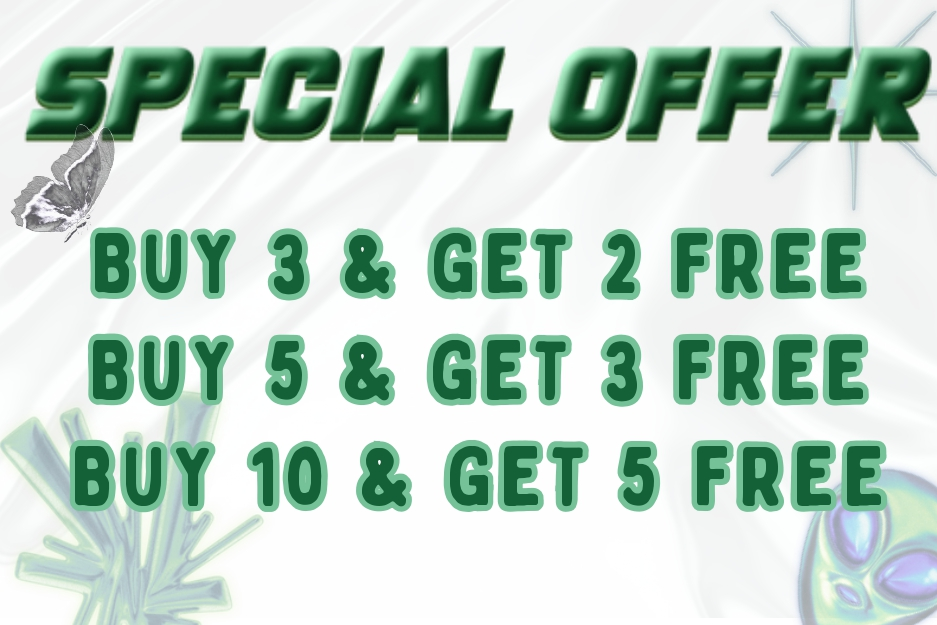
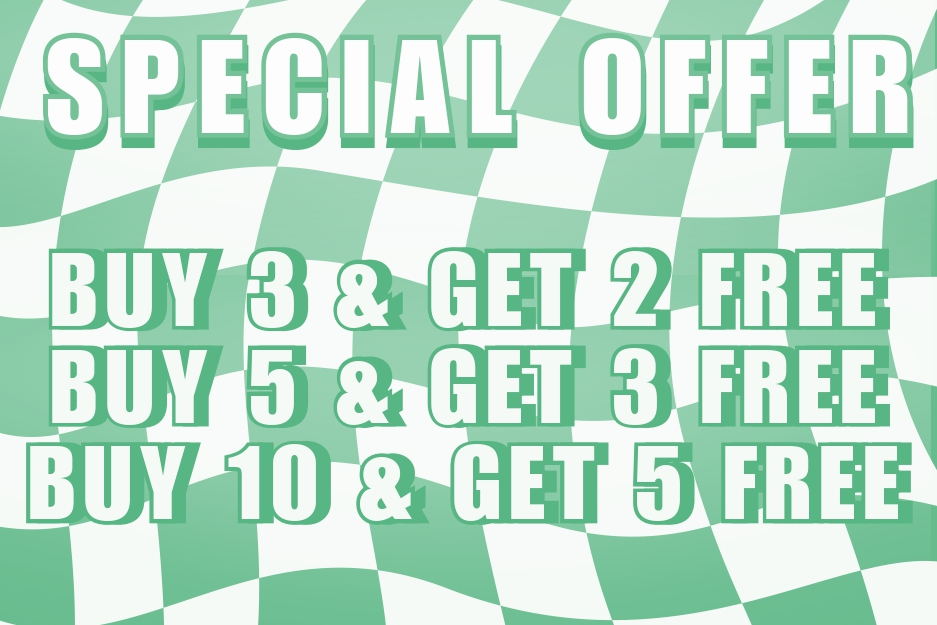
5th

diff --git a/styles.css b/styles.css
@@ -1,8 +1,8 @@
 @import url(https://fonts.googleapis.com/css2?family=Bebas+Neue&family=Nunito:ital,wght@0,200..1000;1,200..1000&display=swap);
 body{background:#fff;font-family:'Nunito',sans-serif;margin:1%}@media screen and (max-width:430px){body{font-size:14px}}@media screen and (max-width:480px){body{font-size:15px}}@media screen and (max-width:540px){body{font-size:16px}}@media screen and (max-width:600px){body{font-size:17px}}@media screen and (max-width:720px){body{font-size:18px}}@media screen and (min-width:1024px){body{font-size:20px}}
 h1{font-size:28px;color:#fff;text-align:center}
-.announcement-bar{width:101%;background:#fff;color:#000;font-size:16px;font-weight:700;white-space:nowrap;overflow:hidden;position:relative}
-.wrap-announcement-bar{display:flex;align-items:center;justify-content:flex-start;width:100%;overflow:hidden}
+.announcement-bar{margin-top:-2%%;width:101%;background:#fff;color:#000;font-size:16px;font-weight:700;white-space:nowrap;overflow:hidden;position:relative}
+.wrap-announcement-bar{align-items:center;justify-content:flex-start;width:100%;overflow:hidden}
 .box-sw-announcement-bar{display:flex;animation:slide-har 10s linear infinite;will-change:transform}
 .announcement-bar-item{display:inline-block;padding:0 50px;text-transform:uppercase;font-size:18px;letter-spacing:2px;transition:transform 0.3s ease;font-weight:700;text-shadow:0 0 5px #57b784,0 0 10px #57b784,0 0 20px #57b784,0 0 40px #57b784;animation:neonGlow 1.5s infinite alternate}
 .announcement-bar-item:hover{transform:scale(1.05);transition:transform 0.3s ease-in-out}@keyframes slide-har{0%{transform:translateX(0%)}100%{transform:translateX(-100%)}}@keyframes neonGlow{0%{text-shadow:0 0 5px #57b784,0 0 10px #57b784,0 0 20px #57b784,0 0 30px #57b784}100%{text-shadow:0 0 7px #57b784,0 0 14px #57b784,0 0 25px #57b784,0 0 50px #57b784}}.sticky-container{position:sticky;top:0;left:0;width:100%;z-index:1000;background:#fff;box-shadow:0 4px 12px rgb(0 0 0 / .1)}
@@ -17,3 +17,36 @@ h1{font-size:28px;color:#fff;text-align:center}
 .checkout-btn{background-color:#fff;color:#000;border:1px solid #000;border-radius:6px;box-shadow:5px 4px 0 #000;padding:10px 20px;font-size:16px;cursor:pointer;transition:background-color 0.3s ease}
 .checkout-btn:hover{border:1px solid #000;box-shadow:5px 4px 0 #00c753}#product-list{display:grid;grid-template-columns:repeat(2,1fr);gap:50px;width:90%;margin-left:2%}@media (min-width:768px){#product-list{grid-template-columns:repeat(4,1fr);width:99%;column-gap:10px;row-gap:20px}}
 .total-price{font-weight:700;margin-bottom:20px}.remove-item-btn{background-color:#f44336;color:#fff;padding:5px 10px;margin:10%;border-radius:5px;cursor:pointer}.remove-item-btn:hover{background-color:#d32f2f}.total-price{margin-top:auto;font-size:1.2em;text-align:right;margin-bottom:15px}.product-size-buttons{display:flex;flex-wrap:wrap;justify-content:center;align-items:center;gap:10px;margin-bottom:15px}.categories-wrapper{display:flex;overflow-x:auto;position:sticky;gap:12px;padding:24px 10px;width:96%;scroll-snap-type:x mandatory;scroll-behavior:smooth;-webkit-overflow-scrolling:touch;justify-content:flex-start;scrollbar-width:none;white-space:nowrap;scroll-padding:10px}.categories-wrapper::-webkit-scrollbar{display:none}.category-item{flex:0 0 auto;width:230px;height:140px;background:#fff;border-radius:6px;cursor:pointer;overflow:hidden;transition:transform 0.3s ease-in-out;display:flex;justify-content:center;align-items:center;position:relative;scroll-snap-align:center}.category-item img{width:100%;height:100%;object-fit:cover;border-radius:6px;transition:transform 0.3s ease-in-out}.category-item p{position:absolute;bottom:8px;left:50%;transform:translateX(-50%);transition:transform 0.3s ease-in-out;font-size:13px;font-weight:700;color:#fff;z-index:2;text-shadow:1px 1px 3px rgb(0 0 0 / .6)}.category-item:hover{transform:scale(1.05);transition:transform 0.3s ease-in-out;box-shadow:0 12px 24px rgb(0 0 0 / .2)}@media (max-width:768px){.category-item{width:180px;height:110px}}@media (max-width:480px){.category-item{width:140px;height:90px}}.prodcut-size-button{width:50px;height:36px;background-color:#000;border-radius:50%;display:flex;justify-content:center;align-items:center;color:#fff;font-weight:700;font-size:14px;cursor:pointer;transition:background-color 0.3s ease-in-out;border:none}.prodcut-size-button:hover{background-color:var(--primary-color)}.prodcut-size-button:active{background-color:var(--highlight-color)}:root{--font-color:#323232;--font-color-sub:#666;--bg-color:#fff;--main-color:#323232;--main-focus:#2d8cf0}.card-container{display:flex;flex-wrap:wrap;justify-content:space-between;gap:15px;padding:15px}.card{width:calc(50% - 8px);max-width:400px;background:var(--bg-color);border:2px solid var(--main-color);box-shadow:5px 4px #57b784;border-radius:6px;display:flex;flex-direction:column;padding:12px;gap:6px;font-family:'Nunito',sans-serif}@media (min-width:768px){.card{width:150px;;max-height:500px;max-width:300px}}.card:hover{border:2px solid #000;box-shadow:5px 4px #57b784}.card-img{display:flex;justify-content:center;transition:all 0.5s;margin-bottom:6px}.card-img img{width:100%;height:200px;border-radius:4px;object-fit:cover}.card-title{font-size:18px;font-weight:700;text-align:center;color:var(--font-color)}.card-subtitle{font-size:12px;font-weight:400;color:var(--font-color-sub);text-align:center}.card-divider{width:100%;border:1px solid var(--main-color);border-radius:50px;margin:6px 0}.card-footer{display:flex;justify-content:space-between;align-items:center}.card-price{font-size:16px;font-weight:600;margin:0%;font-family:'Bebas Neue',cursive;color:var(--font-color)}.card-price span{font-size:12px;font-weight:500;color:var(--font-color-sub)}.card-btn{position:sticky;height:30px;background:#fff;border:2px solid #000;box-shadow:5px 4px 0 #000;color:#000;border-radius:6px;padding:0 12px;transition:all 0.3s;display:flex;justify-content:center;align-items:center;cursor:pointer;font-size:14px}.card-btn.active{color:#fff;background:#009145;border:2px solid #57b784}.card-btn:hover{border:1px solid #000;box-shadow:5px 4px 0 #57b784;background:#009145;color:#fff}@media (max-width:768px){.card{width:100%}}.cart-sidebar{display:none;position:fixed;top:0;right:0;width:209px;height:100%;background-color:#fff;box-shadow:-4px 0 6px rgb(0 0 0 / .2);padding:20px;z-index:1000}.cart-sidebar.open{display:block}.close-cart{font-size:30px;cursor:pointer}.cart-items-list{max-height:70%;overflow-y:auto}.cart-item{position:relative}.remove-item{position:absolute;top:-2px;right:-10px;color:#000;font-size:14px;font-weight:700;width:20px;height:20px;display:flex;align-items:center;justify-content:center;border-radius:50%;cursor:pointer;transition:0.3s}.cart-item-details{flex-grow:1}.quantity-control button{margin:0 5px;padding:5px;cursor:pointer}.cart-sidebar{position:fixed;top:0;right:0;border-radius:6px;width:209px;height:96%;background-color:#fff;box-shadow:-4px 0 6px rgb(0 0 0 / .2);padding:20px;z-index:1000;display:flex;flex-direction:column;transform:translateX(100%);transition:transform 0.3s ease-in-out}.cart-sidebar.open{transform:translateX(0);transition:transform 0.3s ease-in-out}.close-cart{font-size:30px;cursor:pointer;align-self:flex-end}.cart-items-list{flex-grow:1;max-height:60vh;overflow-y:auto;padding-right:10px}.cart-items-list::-webkit-scrollbar{width:6px}.cart-items-list::-webkit-scrollbar-thumb{background-color:#ccc;border-radius:3px}.cart-item{display:flex;align-items:center;margin-bottom:15px;border-bottom:1px solid #ddd;padding-bottom:10px}.cart-item-details{flex-grow:1}.quantity-control button{margin:0 5px;padding:5px;cursor:pointer}.cart-footer{padding-top:10px;border-top:1px solid #ddd;background:#fff;padding-bottom:10px}.cart-icon-container{position:fixed;top:20px;right:20px;z-index:1000}.cart-icon{position:relative;margin-top:-3px;width:50px;height:50px;background-color:#fff;border-radius:50%;display:flex;justify-content:center;align-items:center;cursor:pointer;transition:transform 0.3s ease-in-out}.cart-icon:hover{transform:scale(1.1);transition:transform 0.3s ease-in-out}.cart-icon-img{width:70%;height:auto}.cart-count{position:absolute;top:-5px;right:-5px;background-color:#57b784;;color:#fff;font-family:'Nunito',sans-serif;font-size:14px;font-weight:700;width:22px;height:22px;display:flex;justify-content:center;align-items:center;border-radius:50%;box-shadow:0 0 5px rgb(0 0 0 / .3)}.logo{max-height:90px;width:auto;image-rendering:crisp-edges;image-rendering:-webkit-optimize-contrast;transition:transform 0.3s ease-in-out}.logo:hover{transform:scale(1.1);transition:transform 0.3s ease-in-out}@media (max-width:768px){.logo{max-height:70px}}@media (max-width:480px){.logo{max-height:60px}}.footer{margin-top:6%;background-color:#000;color:#fff;text-align:center;padding:0 0;font-family:'Nunito',cursive;width:100%;gap:0%}.footer-content{display:flex;flex-direction:column;align-items:center}.thank-you-text{font-size:24px;font-weight:700;letter-spacing:1px}.copyright-text{font-size:14px;font-weight:400;color:rgb(255 255 255 / .7)}@media (max-width:768px){.thank-you-text{font-size:22px}.copyright-text{font-size:12px}}.cart-item img{width:60px;border:2px solid #000;border-radius:3px;box-shadow:2px 1px 0 #000;margin-top:-27%;height:70px;margin-right:10px;object-fit:cover}.cart-item-details{flex-grow:1}.quantity-controls{display:flex;align-items:center;gap:5px;margin-top:5px}.qty-btn{width:30px;height:30px;background-color:#57b784;border:2px solid #000;box-shadow:3px 2px 0 #000;color:#fff;cursor:pointer;font-size:18px;font-weight:700;border-radius:6px;display:flex;justify-content:center;align-items:center}.qty-btn:hover{background-color:#007a37}.item-quantity{font-size:16px;font-weight:700;text-align:center;min-width:30px}.heart-btn{position:absolute;top:10px;right:10px;background:none;border:none;cursor:pointer;font-size:24px;color:#ccc;transition:color 0.3s}.heart-btn.liked{color:red}
+
+/* Empty cart message */
+.empty-cart-message {
+    text-align: center;
+    font-size: 18px;
+    font-weight: bold;
+    color: #555;
+    margin-top: 20px;
+}
+
+/* Continue Shopping Button */
+.continue-shopping-btn {
+    display: block;
+    width: max-content;
+    margin: 20px auto;
+    padding: 10px 20px;
+    background-color: #fff;
+    color: #000;
+    font-size: 16px;
+    font-weight: bold;
+    text-align: center;
+    border: 1px solid #000;
+    border-radius: 6px;
+    box-shadow: 5px 4px 0 #000;
+    cursor: pointer;
+    transition: all 0.2s ease-in-out;
+}
+
+.continue-shopping-btn:hover {
+    background-color: #f0f0f0;
+    box-shadow: 3px 2px 0 #000;
+    transform: translateY(2px);
+}

diff --git a/index.html b/index.html
@@ -7,7 +7,7 @@
     <meta charset="UTF-8">
     <meta name="viewport" content="width=device-width, initial-scale=0.9, maximum-scale=1.0, user-scalable=no">
     <meta name="description" content="Kanvaz - Buy high-quality posters, polaroids, and decor prints. Shop now!">
-
+    
     <title>KANVAZ.in</title>
     <link rel="stylesheet" href="styles.css">
     
@@ -31,6 +31,7 @@
 </head>
 <body>
 
+<!-- Header Section -->
 <div class="sticky-container">
     <div class="header">
         <img src="image/final.webp" alt="Kanishk Logo" class="logo">
@@ -79,16 +80,8 @@
             <img src="image/Product/CAT-image/MOVIE 1.webp" alt="Movie Posters">
         </div>
         <div class="category-item" onclick="showCategory('Motivation')">
-            <img src="image/Product/CAT-image/MOTIVATION 1.webp" alt="Sports Posters">
+            <img src="image/Product/CAT-image/MOTIVATION 1.webp" alt="Motivation Posters">
         </div>
-    </div>
-</section>
-
-<!-- Slideshow Section -->
-<section class="slideshow-container">
-    <div class="slideshow">
-        <img src="image/1.jpg" class="slideshow-image active">
-        <img src="image/2.jpg" class="slideshow-image">
     </div>
 </section>
 
@@ -104,18 +97,33 @@
     <div class="cart-sidebar-content">
         <span class="close-cart" onclick="closeCart()">&times;</span>
         <h2>Your Cart</h2>
+
+        <!-- New Image inside Cart -->
+        <div class="cart-image">
+            <img src="image/2.jpg" alt="Shopping Cart" class="cart-preview">
+        </div>
+
         <div id="cart-items-list" class="cart-items-list">
             <!-- Cart items will be dynamically added here -->
         </div>
         <div class="cart-footer">
             <div class="total-price">
-                <p>Total: <strong>$<span id="total-price">0.00</span></strong></p>
+                <p>Total: <strong>₹<span id="total-price">0.00</span></strong></p>
             </div>
             <button class="checkout-btn" onclick="proceedToCheckout()">Proceed to Checkout</button>
         </div>
     </div>
 </div>
 
+<!-- Popup Ad Modal -->
+<div id="popup-ad" class="popup-ad">
+    <div class="popup-content">
+        <span class="close-popup" onclick="closePopup()">&times;</span>
+        <img src="image/1.jpg" alt="Special Offer" class="popup-img">
+    </div>
+</div>
+
+<!-- Footer Section -->
 <footer class="footer">
     <div class="footer-content">
         <p class="thank-you-text">Thank you for shopping with us!</p>
@@ -123,57 +131,91 @@
     </div>
 </footer>
 
+<!-- Styles -->
 <style>
-/* Slideshow Styles */
-.slideshow-container {
-    border:1px solid #000;
-    border-radius:6px;
-    box-shadow:5px 4px #000;
-    margin-top: -5%;
-    align-content: center;
-    margin-bottom: 3%;
-    width: 99%;
-    overflow: hidden;
-    position: relative;
+/* Cart Image Styles */
+.cart-image {
     text-align: center;
-    display: flex;
-    justify-content: center; /* Centers horizontally */
-    align-items: center; /* Centers vertically if needed */
+    margin-bottom: 15px;
 }
 
-.slideshow {
-    position: relative;
+.cart-preview {
+    max-width: 100%;
+    border: 1px solid black;
+    border-radius: 4px;
+    box-shadow: 3px 4px black;
+    height: auto;
+}
+
+/* Popup Ad Styles */
+.popup-ad {
+    position: fixed;
+    top: 0;
+    left: 0;
     width: 100%;
+    height: 100%;
+    background: rgba(0, 0, 0, 0.6);
+    display: flex;
+    justify-content: center;
+    align-items: center;
+    z-index: 9999;
+    visibility: visible;
+    opacity: 1;
+    transition: opacity 0.3s ease-in-out, visibility 0.3s;
 }
 
-.slideshow-image {
+.popup-ad.hidden {
+    opacity: 0;
+    visibility: hidden;
+}
+
+.popup-content {
+    position: relative;
+    background: white;
+    padding: 10px;
+    border-radius: 8px;
+    box-shadow: 0px 4px 8px rgba(0, 0, 0, 0.3);
+    max-width: 90%;
+    max-height: 80%;
+    overflow: hidden;
+}
+
+.popup-img {
     width: 100%;
     height: auto;
-    display: none;
+    border-radius: 8px;
 }
 
-.slideshow-image.active {
-    display: block;
+.close-popup {
+    position: absolute;
+    top: 8px;
+    right: 12px;
+    font-size: 22px;
+    font-weight: bold;
+    color: white;
+    background: red;
+    border-radius: 50%;
+    width: 30px;
+    height: 30px;
+    display: flex;
+    align-items: center;
+    justify-content: center;
+    cursor: pointer;
 }
 </style>
 
+<!-- Scripts -->
 <script>
-// Slideshow Script
-let slideIndex = 0;
-const slides = document.querySelectorAll('.slideshow-image');
-
-function showSlides() {
-    slides.forEach((slide, index) => {
-        slide.classList.remove('active');
-    });
-    slides[slideIndex].classList.add('active');
-    slideIndex = (slideIndex + 1) % slides.length;
+function closePopup() {
+    document.getElementById('popup-ad').classList.add('hidden');
 }
 
-// Auto change slides every 3 seconds
-setInterval(showSlides, 3000);
+window.onload = function () {
+    setTimeout(() => {
+        document.getElementById('popup-ad').classList.remove('hidden');
+    }, 1000);
+};
 </script>
-
 <script src="cart.js"></script>
 <script src="products.js"></script>
 

diff --git a/cart.js b/cart.js
@@ -10,16 +10,18 @@ function viewCart() {
 function closeCart() {
     document.getElementById('cart-modal').classList.remove('open');
 }
+
+// Add item to cart
 function addItemToCart(productName, price, imageUrl, size) {
     price = parseFloat(price); // Ensure price is always a number
 
-    // Find item with SAME name AND size
+    // Check if the item with the same name and size already exists
     const existingItem = cartItems.find(item => item.name === productName && item.size === size);
 
     if (existingItem) {
-        existingItem.quantity += 1; // Increase quantity if same name + size exists
+        existingItem.quantity += 1; // Increase quantity if same product & size exist
     } else {
-        // Treat different sizes as separate items
+        // Add new product with size variation
         cartItems.push({ name: productName, price, quantity: 1, imageUrl, size });
     }
 
@@ -27,38 +29,58 @@ function addItemToCart(productName, price, imageUrl, size) {
     updateCartCount();
 }
 
-// Update the cart display
+// Update cart display
 function updateCartDisplay() {
     const cartItemsList = document.getElementById('cart-items-list');
     const totalPriceElem = document.getElementById('total-price');
+    const cartFooter = document.querySelector('.cart-footer');
     cartItemsList.innerHTML = '';
 
     let totalPrice = 0;
+
+    if (cartItems.length === 0) {
+        // If cart is empty, show a message and hide the checkout section
+        cartItemsList.innerHTML = `
+            <p class="empty-cart-message">Your cart is empty.</p>
+            <button class="continue-shopping-btn" onclick="continueShopping()">Continue Shopping</button>
+        `;
+        totalPriceElem.textContent = '0.00';
+        cartFooter.style.display = 'none'; // Hide total and checkout
+        return;
+    }
+
+    // Show checkout section when cart has items
+    cartFooter.style.display = 'block';
 
     cartItems.forEach((item, index) => {
         const itemElem = document.createElement('div');
         itemElem.className = 'cart-item';
         itemElem.innerHTML = `
-        <div class="cart-item">
-    <span class="remove-item" onclick="removeFromCart(${index})">X</span>
-    <img src="${item.imageUrl}" alt="${item.name}" class="cart-item-img">
-    <div class="cart-item-details">
-        <p class="product-name">${item.name} - <strong>Size: ${item.size}</strong></p>
-        <p class="product-price">$${item.price.toFixed(2)}</p>
-        <div class="quantity-controls">
-            <button class="qty-btn decrease" onclick="changeQuantity(${index}, -1)">-</button>
-            <span class="item-quantity" id="item-quantity-${index}">${item.quantity}</span>
-            <button class="qty-btn increase" onclick="changeQuantity(${index}, 1)">+</button>
-        </div>
-    </div>
-</div>
-
+            <div class="cart-item">
+                <span class="remove-item" onclick="removeFromCart(${index})">X</span>
+                <img src="${item.imageUrl}" alt="${item.name}" class="cart-item-img">
+                <div class="cart-item-details">
+                    <p class="product-name">${item.name} - <strong>Size: ${item.size}</strong></p>
+                    <p class="product-price">₹${item.price.toFixed(2)}</p>
+                    <div class="quantity-controls">
+                        <button class="qty-btn decrease" onclick="changeQuantity(${index}, -1)">-</button>
+                        <span class="item-quantity" id="item-quantity-${index}">${item.quantity}</span>
+                        <button class="qty-btn increase" onclick="changeQuantity(${index}, 1)">+</button>
+                    </div>
+                </div>
+            </div>
         `;
         cartItemsList.appendChild(itemElem);
         totalPrice += item.price * item.quantity;
     });
 
     totalPriceElem.textContent = totalPrice.toFixed(2);
+}
+
+// Continue Shopping - Closes Cart and Navigates Back
+function continueShopping() {
+    closeCart();
+    window.location.href = 'index.html'; // Change this if product page has a different path
 }
 
 // Change item quantity (+ or -)
@@ -87,7 +109,6 @@ function updateCartCount() {
     }
 }
 
-
 // Proceed to checkout (WhatsApp Order)
 function proceedToCheckout() {
     if (cartItems.length === 0) {
@@ -97,16 +118,12 @@ function proceedToCheckout() {
 
     let message = "Hello, I would like to place an order:\n\n";
     cartItems.forEach(item => {
-        message += `- ${item.name} (Size: ${item.size}): $${item.price.toFixed(2)} x ${item.quantity}\n`;
+        message += `- ${item.name} (Size: ${item.size}): ₹${item.price.toFixed(2)} x ${item.quantity}\n`;
     });
 
     const totalPrice = cartItems.reduce((sum, item) => sum + item.price * item.quantity, 0);
-    message += `\nTotal Price: $${totalPrice.toFixed(2)}`;
+    message += `\nTotal Price: ₹${totalPrice.toFixed(2)}`;
 
     const whatsappURL = `https://wa.me/+917046145944?text=${encodeURIComponent(message)}`;
     window.open(whatsappURL, '_blank');
 }
-function closeCart() {
-    document.getElementById('cart-modal').classList.remove('open');
-}
-

diff --git a/popup.js b/popup.js
@@ -1,0 +1,11 @@
+// Function to close the popup ad
+function closePopup() {
+    document.getElementById('popup-ad').classList.add('hidden');
+}
+
+// Show the popup ad after 1 second when the page loads
+window.onload = function () {
+    setTimeout(() => {
+        document.getElementById('popup-ad').classList.remove('hidden');
+    }, 1000);
+};
